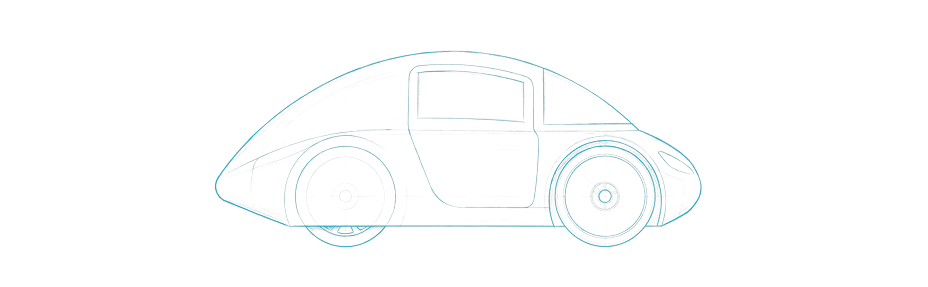
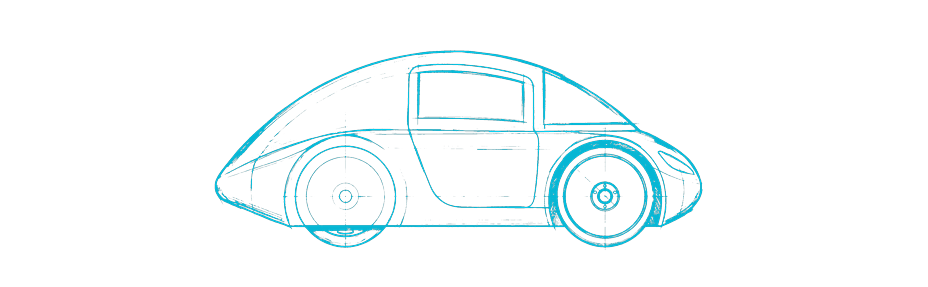
fix: Hydro resimleri - cizgi kalınlığı ve kareli arkaplan duzeltildi

diff --git a/scripts/process_hydro_images.py b/scripts/process_hydro_images.py
@@ -1,4 +1,4 @@
-from PIL import Image, ImageEnhance
+from PIL import Image
 import os
 
 cyan_color = (6, 182, 212)
@@ -28,29 +28,25 @@ def process_image(output_name, source_name):
     print(f'Isleniyor: {source_name} -> {output_name}')
     img = Image.open(source_path).convert('RGBA')
     width, height = img.size
-    rgb = img.convert('RGB')
-    gray = rgb.convert('L')
-    enhancer = ImageEnhance.Contrast(gray)
-    gray = enhancer.enhance(1.8)
-    gray_pixels = gray.load()
-    rgb_pixels = rgb.load()
+    pixels = img.load()
     result = Image.new('RGBA', (width, height), (0, 0, 0, 0))
     result_pixels = result.load()
     for y in range(height):
         for x in range(width):
-            r, g, b = rgb_pixels[x, y]
-            brightness = gray_pixels[x, y]
-            is_cyan = (g > 120 and b > 120 and r < 100) or (g > 100 and b > 140 and r < 80) or (g > 80 and b > 80 and r < 60 and brightness < 200)
-            is_dark = brightness < 140
-            is_checker = (180 <= r <= 210 and 180 <= g <= 210 and 180 <= b <= 210) or (r >= 240 and g >= 240 and b >= 240)
-            if is_cyan:
-                intensity = max(0, 255 - brightness)
-                alpha = max(intensity, 180)
-                result_pixels[x, y] = cyan_color + (min(alpha, 255),)
-            elif is_dark and not is_checker:
-                alpha = max(0, 255 - brightness)
-                if alpha > 30:
-                    result_pixels[x, y] = cyan_color + (alpha,)
+            r, g, b, a = pixels[x, y]
+            # Zaten seffaf: atla
+            if a < 30:
+                continue
+            # Notral gri tespiti: R~G~B (hem acik hem koyu kareler)
+            # 25 tolerans, avg > 80 (koyu kareler ~128, acik kareler ~192)
+            avg = (r + g + b) / 3
+            diff = max(abs(r - g), abs(g - b), abs(r - b))
+            if diff < 30 and avg > 80:
+                continue  # Kareli arkaplan -> seffaf
+            # Cizgi pikseli: kucultme oncesi TAM opak yap (255)
+            # Boylece LANCZOS kucultme sonrasi cizgiler kaybolmaz
+            result_pixels[x, y] = cyan_color + (255,)
+    # Shell referans boyutuna olceklendir
     ref_name = shell_refs.get(output_name)
     if ref_name:
         ref_path = os.path.join(img_dir, ref_name)
@@ -64,7 +60,7 @@ def process_image(output_name, source_name):
             offset_y = (ref_h - result.height) // 2
             canvas.paste(result, (offset_x, offset_y), result)
             result = canvas
-            print(f'  Boyut: {width}x{height} -> {ref_w}x{ref_h}')
+            print(f'  {width}x{height} -> {ref_w}x{ref_h}')
     result.save(output_path, 'PNG')
     print(f'  Kaydedildi: {output_name}')
 
